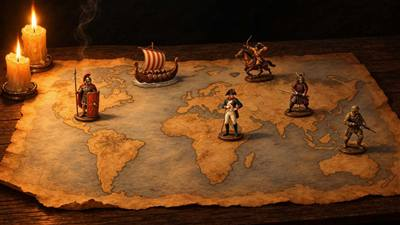
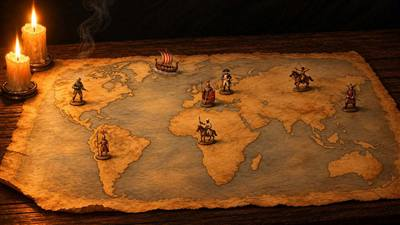
Verden's picture: smaller figures, each standing where its togt is

diff --git a/LICENSES.md b/LICENSES.md
@@ -8,7 +8,7 @@ Alt i spillet er lavet til spillet, undtagen:
 | `assets/paper.jpg` | Papirtekstur (Paper 003, farvebilledet) | [ambientCG](https://ambientcg.com/view?id=Paper003) | [CC0](https://creativecommons.org/publicdomain/zero/1.0/) |
 | `assets/music/theme.mp3` | Temamusikken "Rulers of the Map – Theme" | Lavet med AI hos [Abracadabrax](https://abracadabrax.app), model "Abracadabrax Instrumental" (Stable Audio), 1/11-2026 | Vores til kommerciel brug: modellen er mærket "cleared for commercial use", og [vilkårene](https://abracadabrax.app/terms) giver ejerskab og kommerciel brug (læst 1/11-2026) |
 | `assets/togter/italy.jpg`, `alexander.jpg`, `vikings.jpg` | Billederne bag togternes årstal (Rom, Alexander, Vikingetogtet) | Lavet med AI hos Abracadabrax, model Seedream 4.5 (ByteDance), 1/11-2026, gjort mindre til 960 px, AI'ens opdigtede ord visket ud | Som musikken: ejerskab og kommerciel brug efter Abracadabrax' vilkår og FAQ (læst 1/11-2026) |
-| `assets/togter/liberation.jpg`, `west.jpg`, `england.jpg`, `threekingdoms.jpg`, `genghis.jpg`, `inka.jpg`, `constantinople.jpg`, `songhai.jpg`, `akbar.jpg`, `japan.jpg`, `napoleon.jpg`, `ethiopia.jpg`, `world.jpg` | Billederne bag de øvrige togters årstal (Befrielsen, Vesten, England, De tre kongeriger, Djengis Khan, Inka, Konstantinopel, Songhai, Akbar, Japan, Napoleon, Etiopien, Verden) | Lavet med AI i ChatGPT (OpenAI) med vores billeder som stilforlæg, 2.–8/11-2026 (Napoleon lavet om 8/11 med Skandinavien rettet), gjort mindre til 960 px, AI'ens opdigtede ord visket ud, hvor der var nogen | Vores: OpenAIs [vilkår for Europa](https://openai.com/policies/eu-terms-of-use/) giver brugeren ejerskab til det, der laves, også kommercielt (læst 2/11-2026) |
+| `assets/togter/liberation.jpg`, `west.jpg`, `england.jpg`, `threekingdoms.jpg`, `genghis.jpg`, `inka.jpg`, `constantinople.jpg`, `songhai.jpg`, `akbar.jpg`, `japan.jpg`, `napoleon.jpg`, `ethiopia.jpg`, `world.jpg` | Billederne bag de øvrige togters årstal (Befrielsen, Vesten, England, De tre kongeriger, Djengis Khan, Inka, Konstantinopel, Songhai, Akbar, Japan, Napoleon, Etiopien, Verden) | Lavet med AI i ChatGPT (OpenAI) med vores billeder som stilforlæg, 2.–8/11-2026 (Napoleon lavet om 8/11 med Skandinavien rettet, Verden 9/11 med mindre figurer der står hvor deres togt er), gjort mindre til 960 px, AI'ens opdigtede ord visket ud, hvor der var nogen | Vores: OpenAIs [vilkår for Europa](https://openai.com/policies/eu-terms-of-use/) giver brugeren ejerskab til det, der laves, også kommercielt (læst 2/11-2026) |
 
 Kortet, kystlinjerne, kortsymbolerne og lydene er tegnet og lavet i koden.
 
